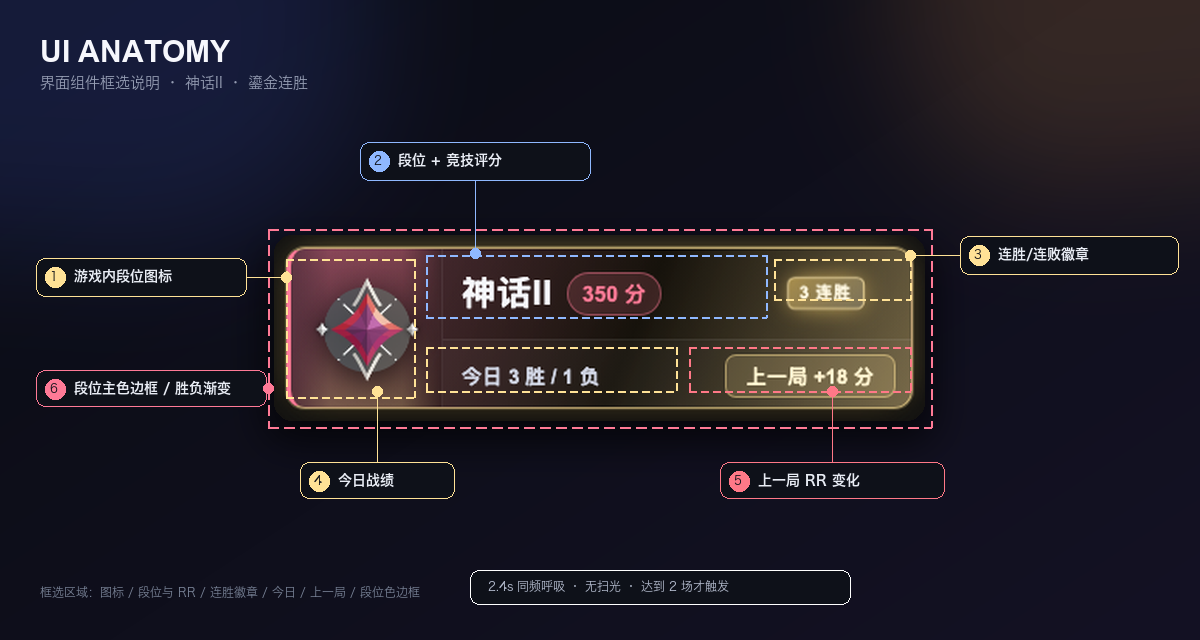
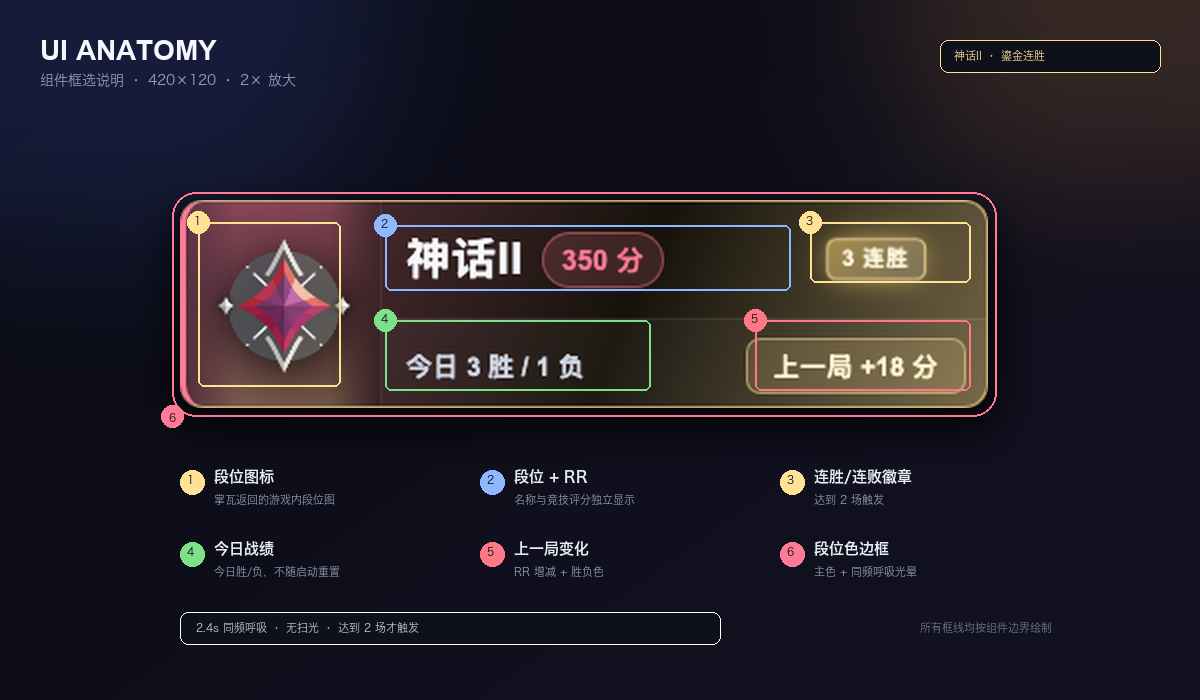
docs: refine UI callouts and add security visual

diff --git a/README.md b/README.md
@@ -146,7 +146,13 @@ OBS → **来源** → **+** → **浏览器**：
 
 状态页只读取本机缓存，不会额外请求掌瓦。运行中登录失效时不会自动弹二维码，需要手动点“重新登录”。
 
-## 数据与隐私
+## 安全与隐私
+
+<p align="center">
+  <img src="docs/images/security.png" width="1000" alt="安全效果图：凭证加密、仅本机监听、数据最小化">
+</p>
+
+<p align="center"><sub>凭证本机加密 · 仅监听 127.0.0.1 · /api/state 不含 Token · 支持 --reset-login 清除</sub></p>
 
 - **Windows**：<code>%LOCALAPPDATA%\ValorantCNOverlay\credentials.bin</code>，使用 **DPAPI** 加密。
 - **macOS**：<code>~/Library/Application Support/ValorantCNOverlay/credentials.bin</code>，使用 **AES-GCM** 加密；密钥优先放在 Keychain。
